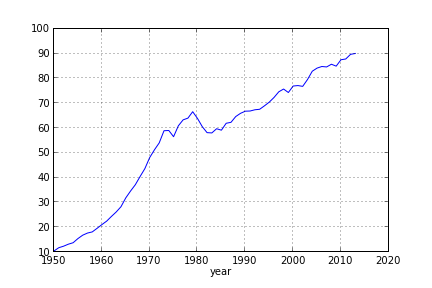
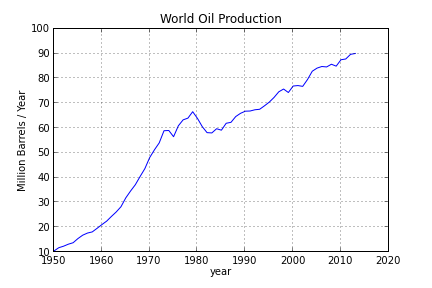
-

Changed region(s): [[0.3611, 0.0312, 0.662, 0.0938], [0.0301, 0.3125, 0.0602, 0.6875]]

diff --git a/app-math-tr/peak/peak.tex b/app-math-tr/peak/peak.tex
@@ -12,6 +12,7 @@ from scipy.optimize import fmin
 import pandas as pd
 from numpy.linalg import *
 df = pd.read_csv('oil1.csv',sep='\s')
+print df[:4]
 
 def hubbard(w):
     yfit = (2*w[0]) / (1+cosh( w[1] * (df['year']-w[2])))
@@ -24,6 +25,11 @@ print v
 \end{minted}
 
 \begin{verbatim}
+   year    oil
+0  1950  10.42
+1  1951  11.73
+2  1952  12.34
+3  1953  13.15
 Optimization terminated successfully.
          Current function value: 52.188303
          Iterations: 193
@@ -32,10 +38,14 @@ Optimization terminated successfully.
 \end{verbatim}
 
 \begin{minted}[fontsize=\footnotesize]{python}
-df = df.set_index('year')
-df['oil'].plot(oil)
+df2 = df.set_index('year')
+ax = df2['oil'].plot(title='World Oil Production')
+ax.set_ylabel("Million Barrels / Year")
 plt.savefig('peak_01.png')
 \end{minted}
+
+
+
 
 \includegraphics[height=6cm]{peak_01.png}
 
